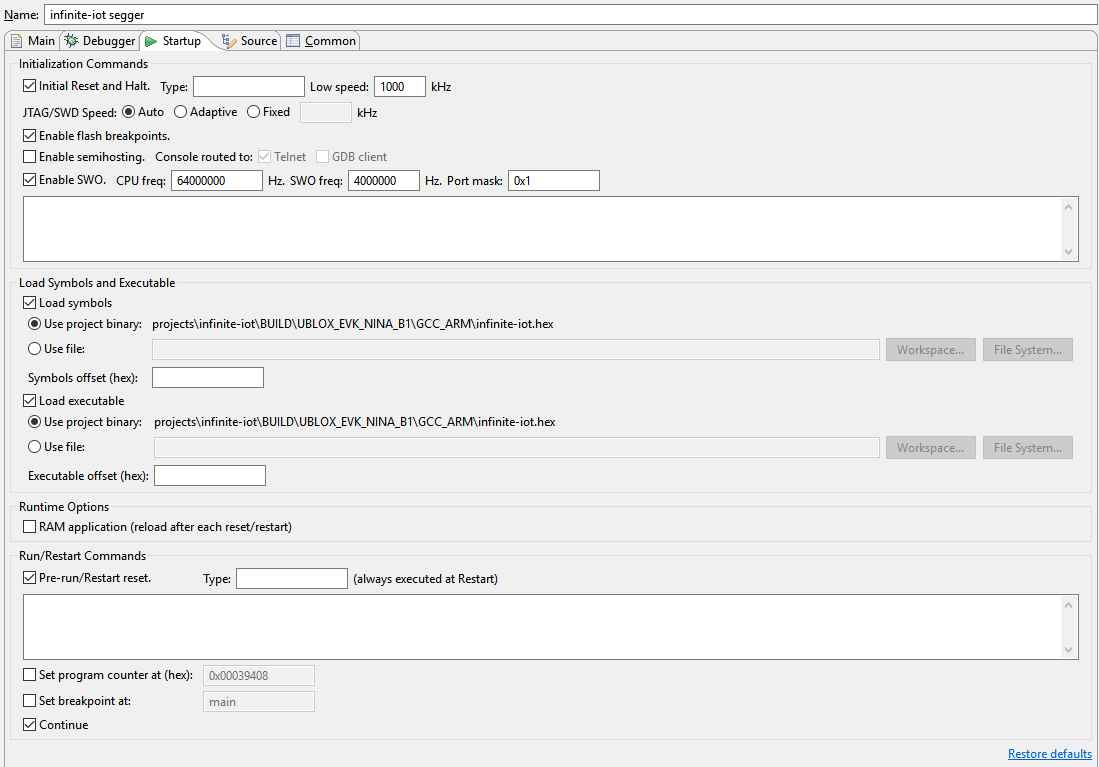
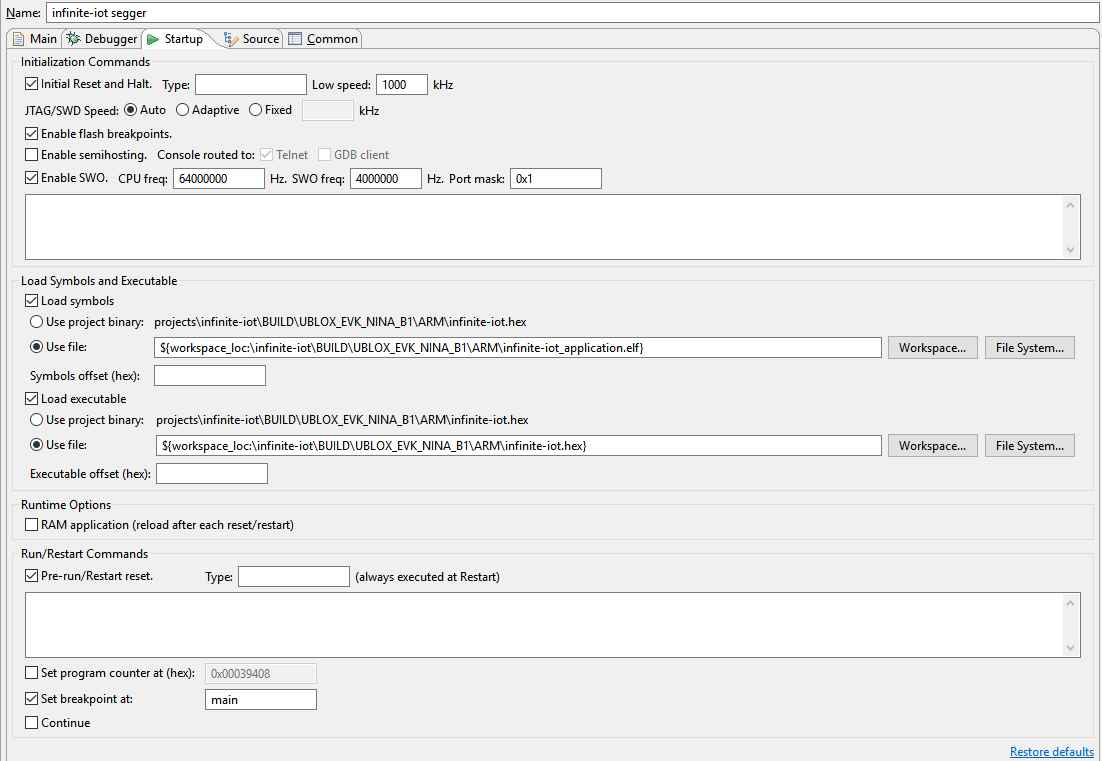
Add Eclipse project files.  Further update to README.md to make it clear how to successfully run an Eclipse debug session.

Changed region(s): [[0.0, 0.0, 1.0, 1.0]]

diff --git a/source/README.md b/source/README.md
@@ -22,8 +22,11 @@ In outline, this is how the energy harvesting code is structured:
 # Debugging
 The Segger JLink-base, as configured for loading binaries onto the Infinite IoT board, can be used to debug the NINA-B1 in the usual way.  The important configuration screens for running a debug session in Eclipse are shown below:
 
-![eclipse debug configuration 1](eclipse_debug_debugger_tab.jpg "Eclipse debug debugger tab")
-![eclipse debug configuration 2](eclipse_debug_startup_tab.jpg "Eclipse debug startup tab")
+![eclipse debug configuration 1](eclipse_debug_main_tab.jpg "Eclipse debug main tab")
+![eclipse debug configuration 2](eclipse_debug_debugger_tab.jpg "Eclipse debug debugger tab")
+![eclipse debug configuration 3](eclipse_debug_startup_tab.jpg "Eclipse debug startup tab")
+
+Note that the `infinite-iot.hex` file is the C/C++ Application but, in the Startup tab, the symbols are loaded from `infinite-iot_application.elf` (while the loaded executable on the same page remains `infinite-iot.hex`).  You may find that the debugger wanders around a little lost to begin with since it doesn't have symbol information for the initial boot; a break-point at `main()` will work and, if you want to see what's going on before that, switch to assembler instruction trace instead.  I also found that if the debug session does not end cleanly GDB is sometimes unable to start the Segger, complaining about it being low on memory; the Segger just needs its USB cable unplugged plugged in again to clear things up.
 
 The NINA-B1 module on the Infinite IoT board has only one serial port and this is connected to the cellular modem on the board, hence normal `printf()`-style debug is not possible and is, by default, switched off.  If the modem is powered down, an FTDI cable could be soldered to pads on the Infinite IoT board to allow `printf()` debug.
 

diff --git a/README.md b/README.md
@@ -6,9 +6,11 @@ Import this code with:
 
 `mbed import https://github.com/u-blox/infinite-iot`
 
-Set your Mbed target to `UBLOX_EVK_NINA_B1`, set your desired toolchain and build the code with:
+Set your Mbed target to `UBLOX_EVK_NINA_B1`, set your desired toolchain and then build the code with:
 
 `mbed compile`
+
+If you want a debug build (i.e. with optimisation off so that you can do source-level single-step in a debugger) use `ARM` toolchain instead of `GCC_ARM` as the unoptimized GCC one won't fit in the available flash.
 
 # Loading Code
 To load a binary onto the Infinite IoT board you will need the following equipment:
